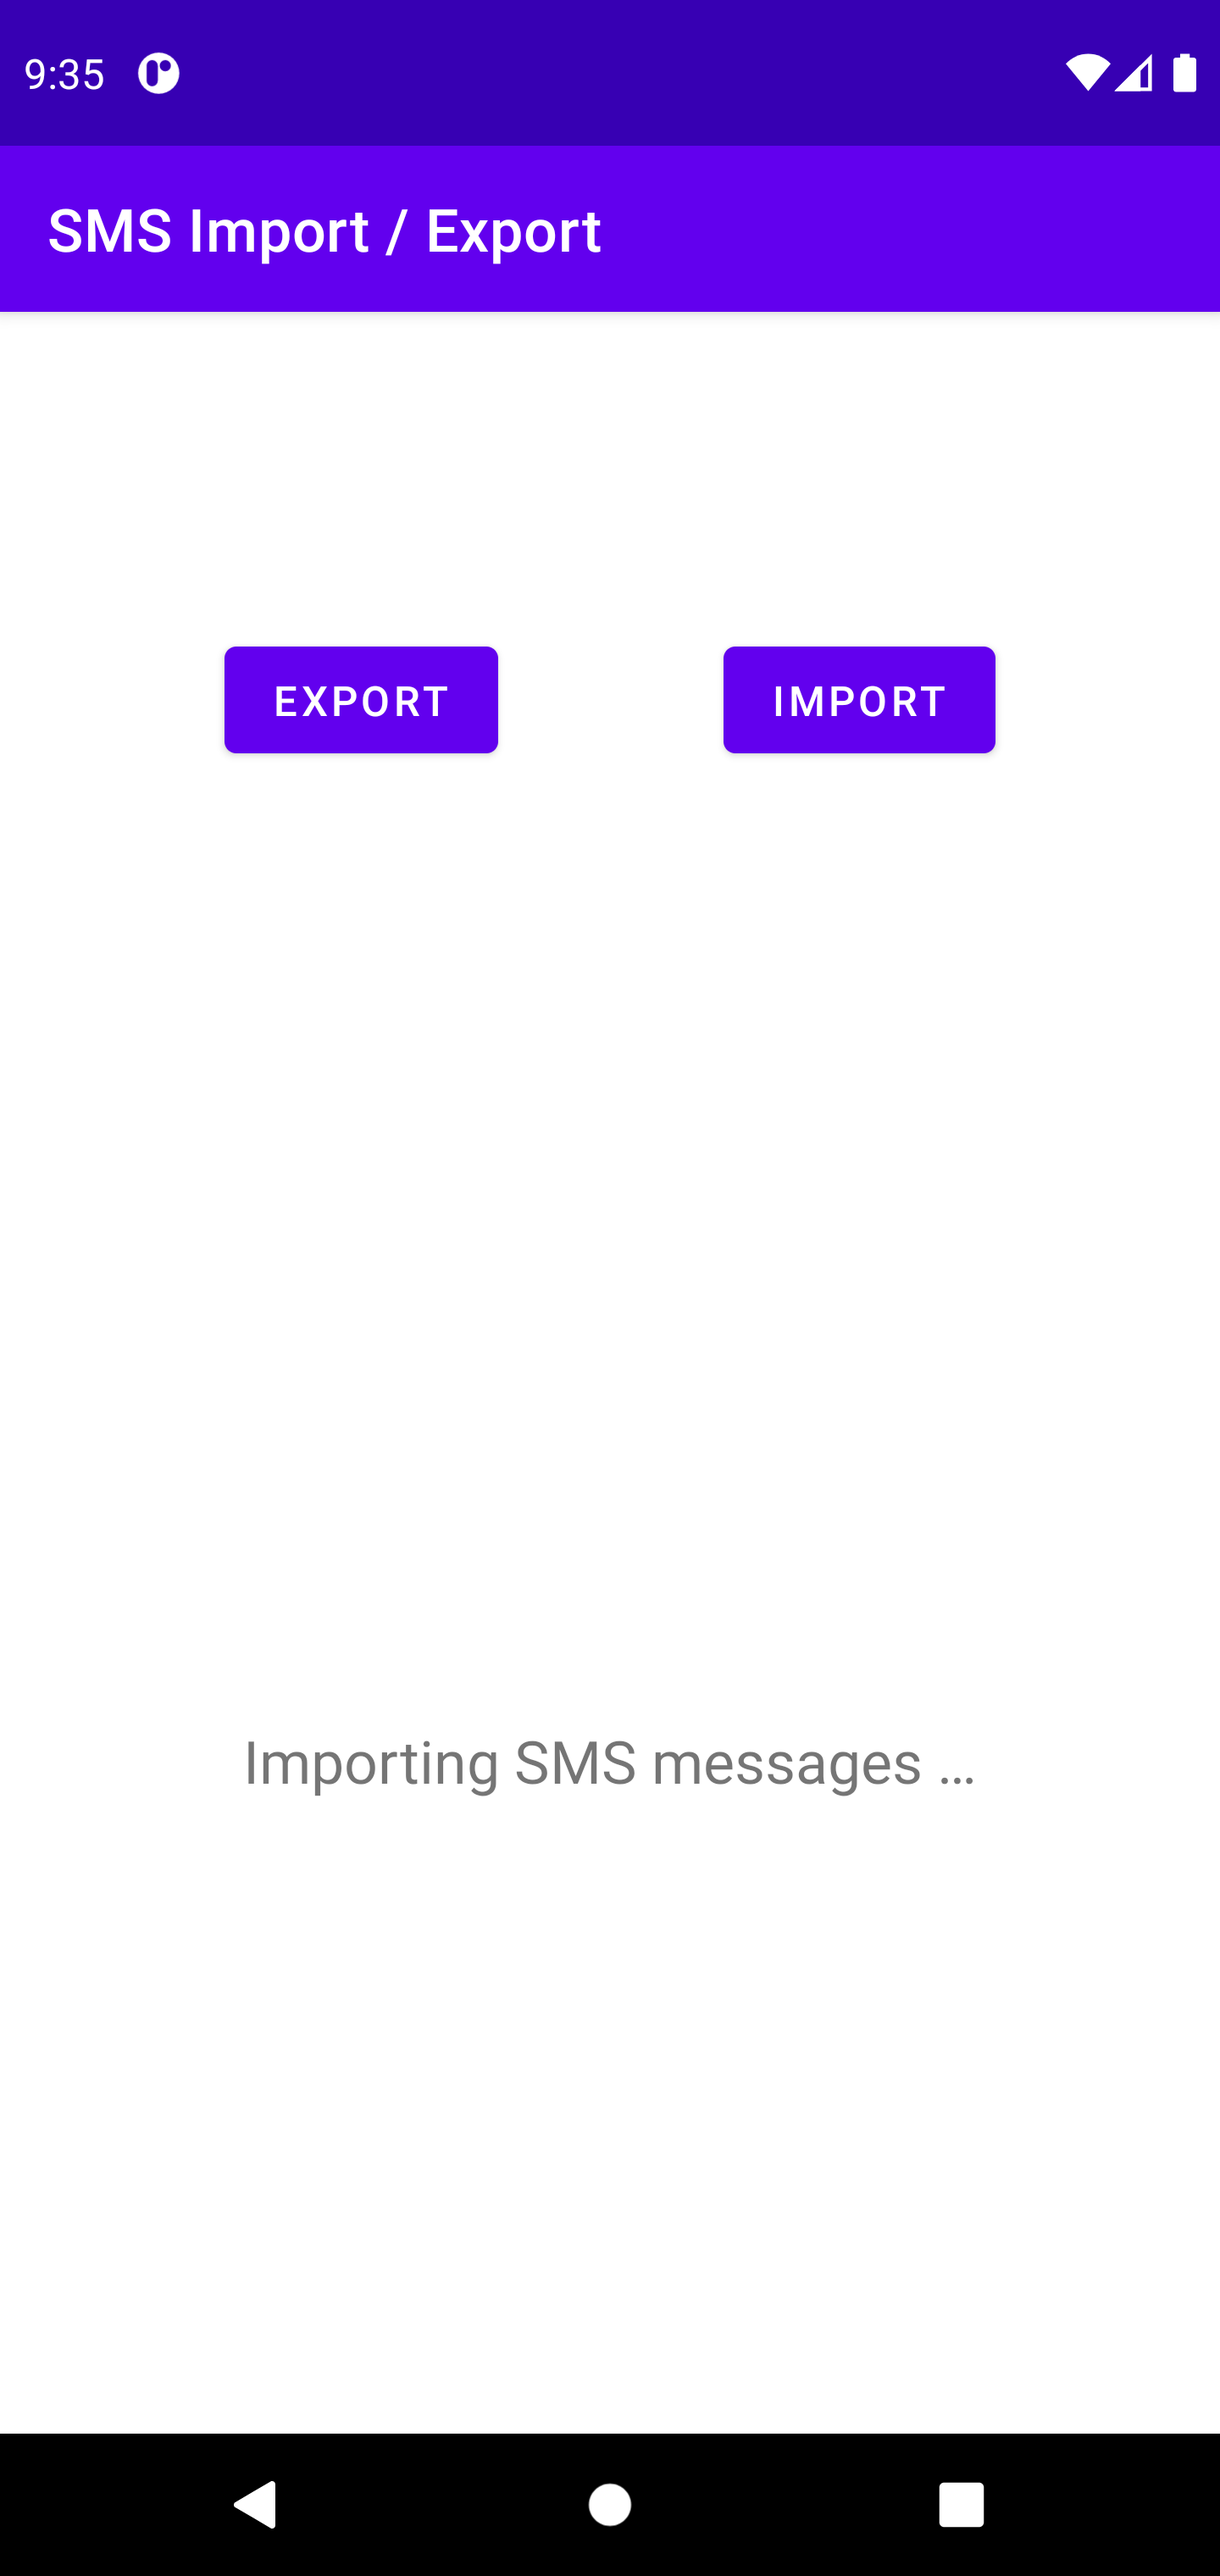
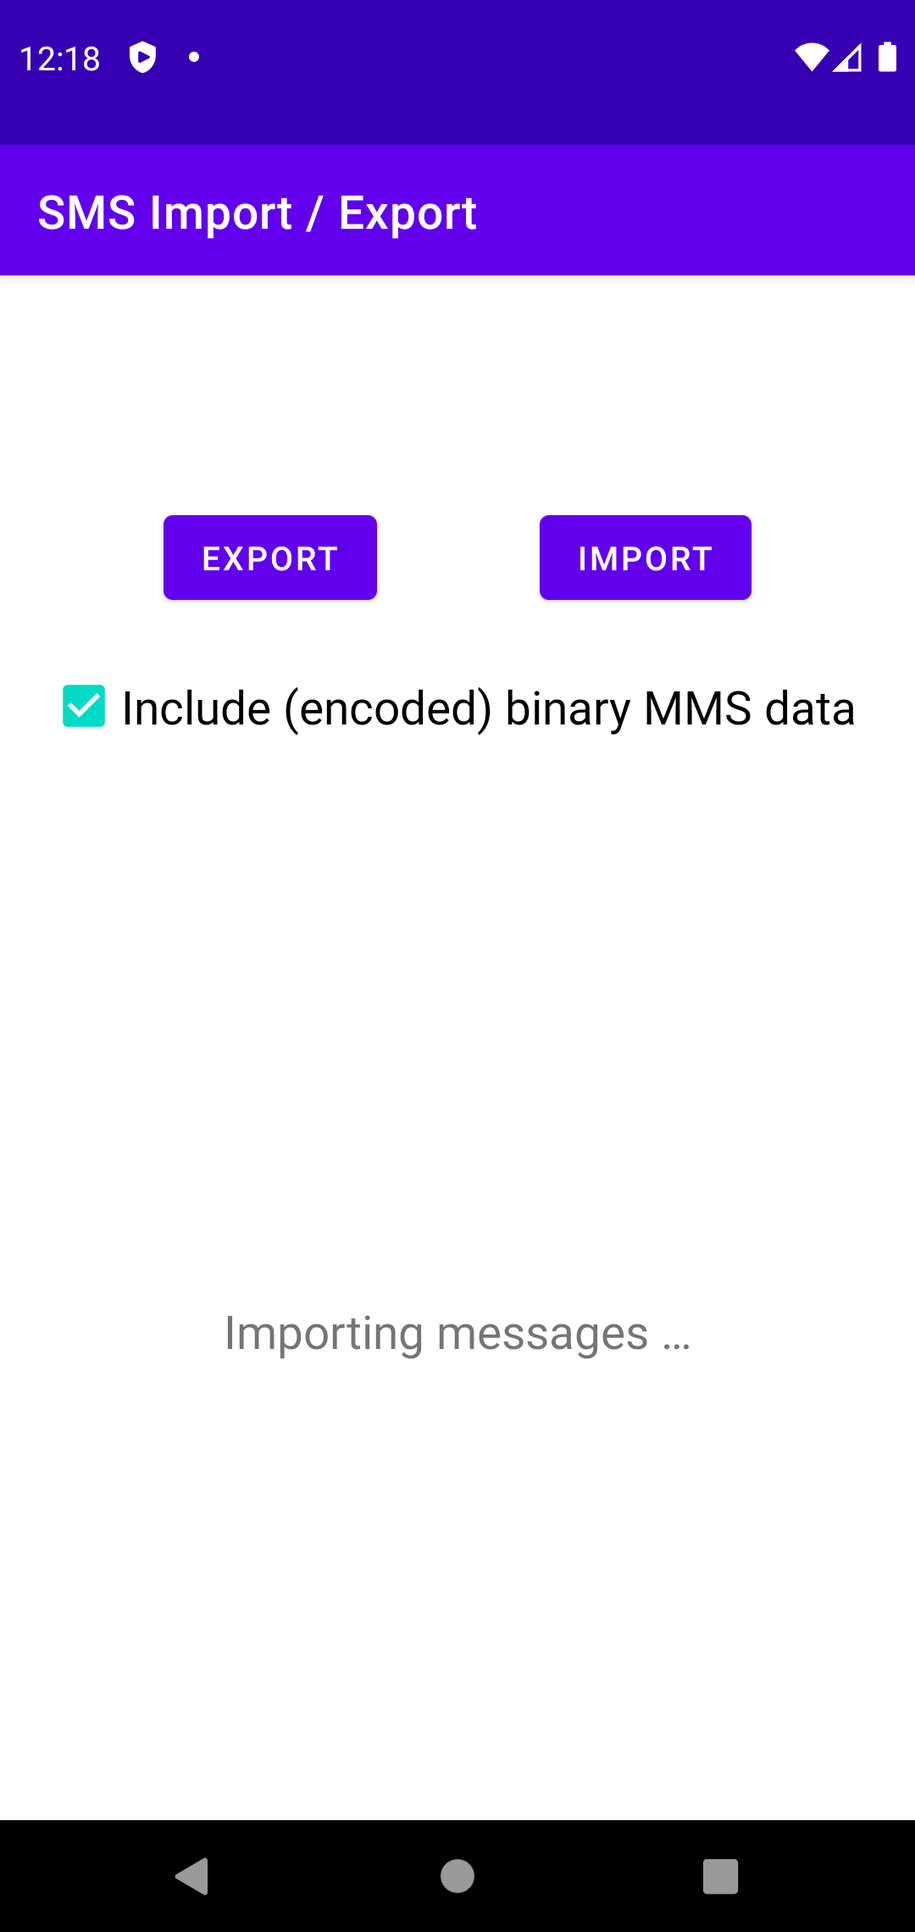
Add MMS import

diff --git a/app/src/main/java/com/github/tmo1/sms_ie/MainActivity.kt b/app/src/main/java/com/github/tmo1/sms_ie/MainActivity.kt
@@ -30,6 +30,7 @@ import android.os.Build.VERSION.SDK_INT
 import android.os.Bundle
 import android.provider.ContactsContract
 import android.provider.Telephony
+import android.provider.Telephony.Threads.getOrCreateThreadId
 import android.util.Base64
 import android.util.Log
 import android.view.View
@@ -60,6 +61,8 @@ const val IMPORT = 2
 const val PERMISSIONS_REQUEST = 1
 const val LOG_TAG = "DEBUG"
 const val MAX_MESSAGES = -1
+const val SMS = true
+const val MMS = true
 
 data class MessageTotal(var sms: Int, var mms: Int)
 
@@ -169,7 +172,7 @@ class MainActivity : AppCompatActivity() {
                 statusReportText.visibility = View.VISIBLE
                 GlobalScope.launch(Dispatchers.Main) {
                     val total = jsonToSms(it)
-                    statusReportText.text = getString(R.string.import_results, total)
+                    statusReportText.text = getString(R.string.import_results, total.sms, total.mms)
                 }
             }
         }
@@ -270,7 +273,9 @@ class MainActivity : AppCompatActivity() {
                                         if (includeBinaryData && it1.getString(dataIndex) != null) {
                                             val inputStream = contentResolver.openInputStream(
                                                 Uri.parse(
-                                                    "content://mms/part/" + it1.getString(partIdIndex)
+                                                    "content://mms/part/" + it1.getString(
+                                                        partIdIndex
+                                                    )
                                                 )
                                             )
                                             val data = inputStream.use {
@@ -343,9 +348,10 @@ class MainActivity : AppCompatActivity() {
         return displayName
     }
 
-    private suspend fun jsonToSms(uri: Uri): Int {
+    private suspend fun jsonToSms(uri: Uri): MessageTotal {
         return withContext(Dispatchers.IO) {
-            var total = 0
+            var smsTotal = 0
+            var mmsTotal = 0
             val stringBuilder = StringBuilder()
             uri.let {
                 contentResolver.openInputStream(it).use { inputStream ->
@@ -362,22 +368,142 @@ class MainActivity : AppCompatActivity() {
                 val messages = JSONArray(stringBuilder.toString())
                 for (i in 0 until messages.length()) {
                     val message = messages[i]
-                    if (message is JSONObject && !message.has("m_type")) { // we don't import MMS yet
-                        val values = ContentValues()
-                        for (key in listOf(
-                            Telephony.Sms.ADDRESS,
-                            Telephony.Sms.BODY,
-                            Telephony.Sms.DATE,
-                            Telephony.Sms.DATE_SENT,
-                            Telephony.Sms.TYPE
-                        )) {
-                            values.put(key, message.optString(key))
+                    if (message is JSONObject) {
+                        if (!message.has("m_type")) { // it's SMS
+                            if (BuildConfig.DEBUG && (!SMS || smsTotal == MAX_MESSAGES)) continue
+                            val smsMetadata = ContentValues()
+                            for (key in listOf(
+                                Telephony.Sms.ADDRESS,
+                                Telephony.Sms.BODY,
+                                Telephony.Sms.DATE,
+                                Telephony.Sms.DATE_SENT,
+                                Telephony.Sms.TYPE
+                            )) {
+                                smsMetadata.put(key, message.optString(key))
+                            }
+                            val insertUri =
+                                contentResolver.insert(Telephony.Sms.CONTENT_URI, smsMetadata)
+                            if (insertUri == null) {
+                                Log.v(LOG_TAG, "SMS insert failed!")
+                            } else smsTotal++
+                        } else { //it's MMS
+                            /*the following is adapted from here https://stackoverflow.com/questions/25584442/android-save-or-insert-mms-in-content-provider-programmatically
+                            here https://stackoverflow.com/questions/11673543/inserting-sent-mms-into-sent-box
+                            and here https://coderedirect.com/questions/310606/sending-mms-in-android-4-4
+                            MMS insertion seems to work fine without the dummy SMS, so we omit it*/
+                            if (BuildConfig.DEBUG && (!MMS || mmsTotal == MAX_MESSAGES)) continue
+                            val addresses = mutableSetOf<JSONObject>()
+                            val senderAddress = message.optJSONObject("sender_address")
+                            if (senderAddress != null) addresses.add(senderAddress)
+                            val recipientAddresses = message.optJSONArray("recipient_addresses")
+                            if (recipientAddresses != null) {
+                                for (j in 0 until recipientAddresses.length()) {
+                                    addresses.add(recipientAddresses[j] as JSONObject)
+                                }
+                            }
+                            val threadId = getOrCreateThreadId(
+                                this@MainActivity,
+                                addresses.map { it.optString("address") }.toSet()
+                            )
+                            val mmsMetadata = ContentValues()
+                            mmsMetadata.put("thread_id", threadId)
+                            val keys = message.keys()
+                            while (keys.hasNext()) {
+                                val key = keys.next()
+                                if (key !in setOf(
+                                        "sender_address",
+                                        "recipient_addresses",
+                                        "parts",
+                                        "thread_id",
+                                        "_id"
+                                    )
+                                ) mmsMetadata.put(
+                                    key,
+                                    message.optString(key)
+                                )
+                            }
+                            val insertUri =
+                                contentResolver.insert(Telephony.Mms.CONTENT_URI, mmsMetadata)
+                            if (insertUri == null) {
+                                Log.v(LOG_TAG, "MMS insert failed!")
+                            } else {
+                                mmsTotal++
+//                                Log.v(LOG_TAG, "MMS insert succeeded!")
+                                val messageId = insertUri.lastPathSegment
+                                val addressUri = Uri.parse("content://mms/$messageId/addr")
+                                addresses.forEach { address ->
+                                    val addressValues = ContentValues()
+                                    addressValues.put(Telephony.Mms.Addr.MSG_ID, messageId)
+                                    for (key in listOf(
+                                        Telephony.Mms.Addr.ADDRESS,
+                                        Telephony.Mms.Addr.CHARSET,
+                                        Telephony.Mms.Addr.TYPE
+                                    )) {
+                                        addressValues.put(key, address.optString(key))
+                                    }
+                                    val insertAddressUri =
+                                        contentResolver.insert(addressUri, addressValues)
+                                    if (insertAddressUri == null) {
+                                        Log.v(LOG_TAG, "MMS address insert failed!")
+                                    } /*else {
+                                        Log.v(LOG_TAG, "MMS address insert succeeded. Address metadata:" + address.toString())
+                                    }*/
+                                }
+                                val partUri = Uri.parse("content://mms/$messageId/part")
+                                val parts = message.optJSONArray("parts")
+                                if (parts != null) {
+                                    for (j in 0 until parts.length()) {
+                                        val part = parts[j] as JSONObject
+                                        val partMetadata = ContentValues()
+                                        val partKeys = part.keys()
+                                        while (partKeys.hasNext()) {
+                                            val key = partKeys.next()
+                                            if (key !in setOf(
+                                                    Telephony.Mms.Part.MSG_ID,
+                                                    Telephony.Mms.Part._ID,
+                                                    Telephony.Mms.Part._DATA,
+                                                    Telephony.Mms.Part._COUNT,
+                                                    "binary_data"
+                                                )
+                                            ) partMetadata.put(
+                                                key,
+                                                part.optString(key)
+                                            )
+                                        }
+                                        partMetadata.put(Telephony.Mms.Part.MSG_ID, messageId)
+                                        val insertPartUri =
+                                            contentResolver.insert(partUri, partMetadata)
+                                        if (insertPartUri == null) {
+                                            Log.v(
+                                                LOG_TAG,
+                                                "MMS part insert failed! Part metadata:$part"
+                                            )
+                                        } else {
+                                            if (part.has("binary_data")) {
+                                                val binaryData = Base64.decode(
+                                                    part.optString("binary_data"),
+                                                    Base64.NO_WRAP
+                                                )
+                                                val os =
+                                                    contentResolver.openOutputStream(
+                                                        insertPartUri
+                                                    )
+                                                if (os != null) {
+                                                    os.use {
+                                                        os.write(binaryData)
+                                                    }
+                                                } else {
+                                                    Log.v(
+                                                        LOG_TAG,
+                                                        "Failed to open OutputStream!"
+                                                    )
+                                                }
+                                            }
+                                        }
+                                    }
+                                }
+                            }
                         }
-                        val insertUri =
-                            contentResolver.insert(Telephony.Sms.CONTENT_URI, values)
-                        if (insertUri == null) {
-//                            Log.v(LOG_TAG, "Insert failed!")
-                        } else total++
                     } /*else {
                         Log.v(LOG_TAG, "Found non-JSONObject!")
                     }*/
@@ -389,16 +515,16 @@ class MainActivity : AppCompatActivity() {
                     Toast.LENGTH_LONG
                 ).show()
             }
-            total
+            MessageTotal(smsTotal, mmsTotal)
         }
     }
 
     fun onCheckBoxClicked(view: View) {
         if (view is CheckBox) {
             includeBinaryData = view.isChecked
-            }
         }
     }
+}
 
 // From https://stackoverflow.com/a/51394768
 fun Date.toString(format: String, locale: Locale = Locale.getDefault()): String {

diff --git a/README.md b/README.md
@@ -1,8 +1,6 @@
 # SMS Import / Export
 
-SMS Import / Export is a simple Android app that imports and exports messages from and to JSON files. Root is not required. The current release is version 1.2.
-
-Currently, both SMS and MMS messages are exported, but only SMS messages are imported.
+SMS Import / Export is a simple Android app that imports and exports SMS and MMS messages from and to JSON files. Root is not required. The current release is version 1.2.
 
 [<img src="https://fdroid.gitlab.io/artwork/badge/get-it-on.png"
      alt="Get it on F-Droid"
@@ -19,7 +17,7 @@ SMS Import / Export is available from [Github](https://github.com/tmo1/sms-ie). 
 
 These operations can take some time for large numbers of messages. The app will report the total number of SMS and MMS messages imported or exported upon successful conclusion.
 
-By default, binary MMS data (such as images and videos) are exported. The user can choose to exclude them, which will often result in a file that is much smaller and more easily browsable by humans.
+By default, binary MMS data (such as images and videos) are exported. The user can choose to exclude them, which will often result in a file that is much smaller and more easily browsable by humans. (The checkbox is currently ignored on import.)
 
 ### Permissions
 
@@ -42,7 +40,7 @@ The exported JSON is an array of JSON objects representing messages, SMSs follow
 
 ### SMS Messages
 
-In a SMS message, the value of `type` specifices (among other things) the direction of the message: the two most common values are `1`, denoting "inbox" (i.e., received), and `2`, denoting "sent".
+In SMS messages, the value of `type` specifies (among other things) the direction of the message: the two most common values are `1`, denoting "inbox" (i.e., received), and `2`, denoting "sent".
 
 SMS messages contain a single `address` tag; depending on the message direction, this is either the sender or receiver address. SMS Import / Export attempts to look up the address in the Android Contacts database. If this is successful, a tag-value pair of the form `"display_name": "Alice"` is added to the SMS message object.
 
@@ -57,8 +55,6 @@ MMS message objects have the following additions to the tag-value pairs of their
  - A tag-value pair of the form `"parts": [ { ... }, { ... }]`, where the child JSON objects contain a series of tag-value pairs taken directly from Android's internal MMS part structure, documented [here](https://developer.android.com/reference/android/provider/Telephony.Mms.Part), plus, for parts containing binary data (assuming binary data inclusion is checked), a tag-value pair of the form `"binary_data": "<Base64 encoded binary data>"`.
 
 ## Limitations
-
-MMS import is not yet supported..
 
 Currently, no deduplication is done. For example, if messages are exported and then immediately reimported, the device will then contain two copies of every message.
 
